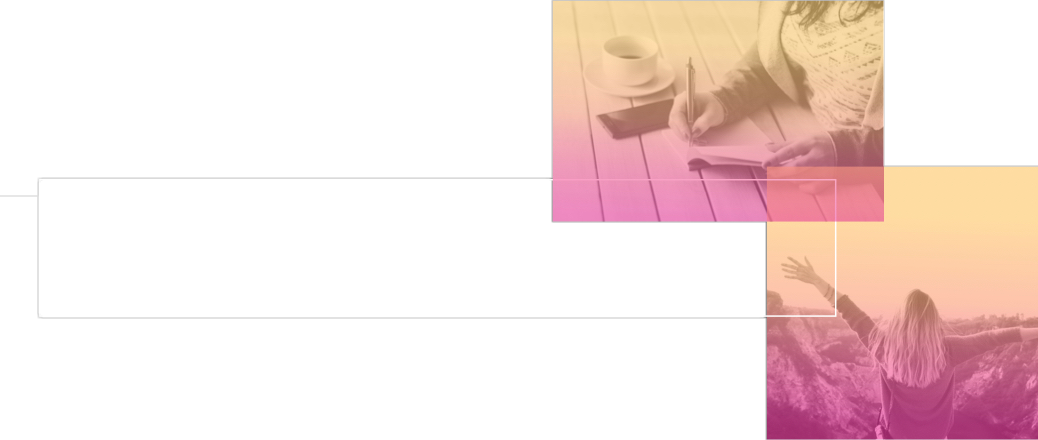
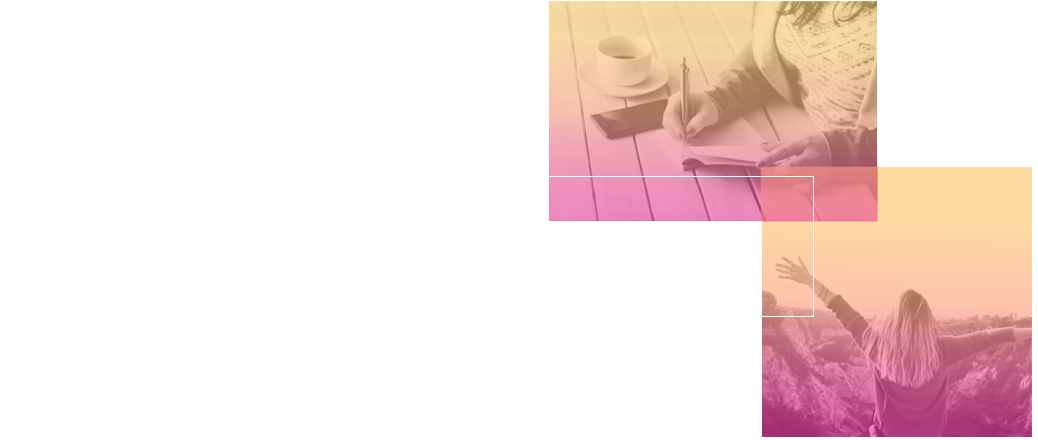
the left side of my home page is beautiful

Changed region(s): [[0.0308, 0.0, 1.0, 1.0], [0.5857, 0.1182, 0.6166, 0.1477]]

diff --git a/public/style.css b/public/style.css
@@ -1,15 +1,52 @@
+/* overall css */
 @font-face {
-  font-family: 'Iris';
-  src: url('fonts/iris-font-regular.woff');
+	font-family: 'Iris';
+	src: url('fonts/iris-font-regular.woff');
 }
 
 @font-face {
-  font-family: 'Hero Light';
-  src: url('fonts/Hero-Light.woff');
+	font-family: 'Hero Light';
+	src: url('fonts/Hero-Light.woff');
 }
 
 body {
+	font-family: 'Iris', sans serif;
 	background-image: url("img/background.jpeg");
 	background-repeat: no-repeat;
 	background-size: cover;
+}
+
+/* home page css */
+.home-left {
+	width: 900px;
+	position: relative;
+}
+
+.home-left img {
+	width: 850px;
+	position: absolute;
+	top: 150px;
+	left: 50px
+}
+
+.home-left h1 {
+	font-size: 90px;
+	display: inline-block;
+	position: absolute;
+	top: 255px;
+	left: 105px;
+	color: white;
+	letter-spacing: 10px
+}
+
+.home-left h2 {
+	font-family: 'Hero Light', sans serif;
+	font-size: 22px;
+	text-transform: uppercase;
+	display: inline-block;
+	position: absolute;
+	top: 411px;
+	left: 105px;
+	color: white;
+	letter-spacing: 1px;
 }

diff --git a/controllers/user.js b/controllers/user.js
@@ -1,0 +1,16 @@
+module.exports = function(db) {
+
+    let homeRequestHandler = async function(request, response) {
+        try {
+            //async part comes in later when you check if they're already logged in or not
+            response.render('pages/home');
+        }
+        catch(e) {
+            console.log('user controller ' + e);
+        }
+    };
+
+    return {
+        homeRequestHandler,
+    };
+}

diff --git a/views/pages/home.jsx b/views/pages/home.jsx
@@ -5,7 +5,11 @@ class Home extends React.Component {
   render() {
     return (
           <Layout>
-          <h1>Hello.</h1>
+          <div className = "home-left">
+            <h1>minute.</h1>
+            <img src="img/cloud3.png"/>
+            <h2>A Self-Care Diary App For Busy People</h2>
+          </div>
           </Layout>
         )
     }
